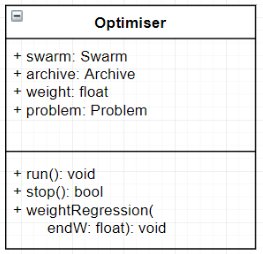
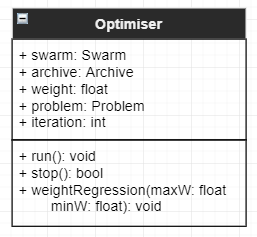
changed diagrams

diff --git a/doc/Solution/solution.md b/doc/Solution/solution.md
@@ -2,16 +2,12 @@
 ![alt text](solution.PNG)
 ___
 ## Attributes
-* x: Dictionary
-x is a dictionary of dimension variable values. By allowing it to be in a dictionary, a dimension can be indexed by its key name. `Will need to check if it's just as feasible with an array based on ZDT's implmentation. Array implmentation could improve performance.`
+* x: float [ ]
+x is an array of dimension values.
 
 * objectives: float[ ]
 objectives are a dictionary of floats that indicate a solutions performance in each objective.
-
-* optimizationType: string[ ]
-`optimizationType indicates how the user would like to optimize in each of the objectives. Can either be "MAX" or "MIN".`
-
 ___
 ## Methods
-* isFullyDominated(Solution): Bool
+* isFullyDominated(solution: Solution, optimizationType: string [ ]): Bool
 `This method determines if the solution being inputed dominates the current solution. It does this by checking each of the objectives and there optimization type. `

diff --git a/doc/Optimiser/optimiser.md b/doc/Optimiser/optimiser.md
@@ -24,5 +24,5 @@ The run method is used to keep all of the main code for running a MOPSO.
 * stop(): Boolean
 The stop method determines when the the optimiser will stop the next iteration. This returns false if the number of iterations has reached its max or the average velocity has reached its minimum indicating that the particles have stopped moving. 
 
-* weightRegression(startW: float, endW: float): void
+* weightRegression(maxW: float, minW: float): void
 This method changes the weight variable. `Dicussions need to be had about the method.`

diff --git a/doc/Problem/problem.md b/doc/Problem/problem.md
@@ -2,6 +2,10 @@
 ![alt text](problem.PNG)
 ___
 ## Attributes
+* objectives: function
+This is a function pointer to the problems objectives. This function will return an array of floats.
+* optimizationType: string [ ]
+This variable holds the optimization type, either "MAX" or "MIN", to determine how to compare each objective.
 * c1: float
 The weight of the cognitive component of the particles move function.
 * c2: float
